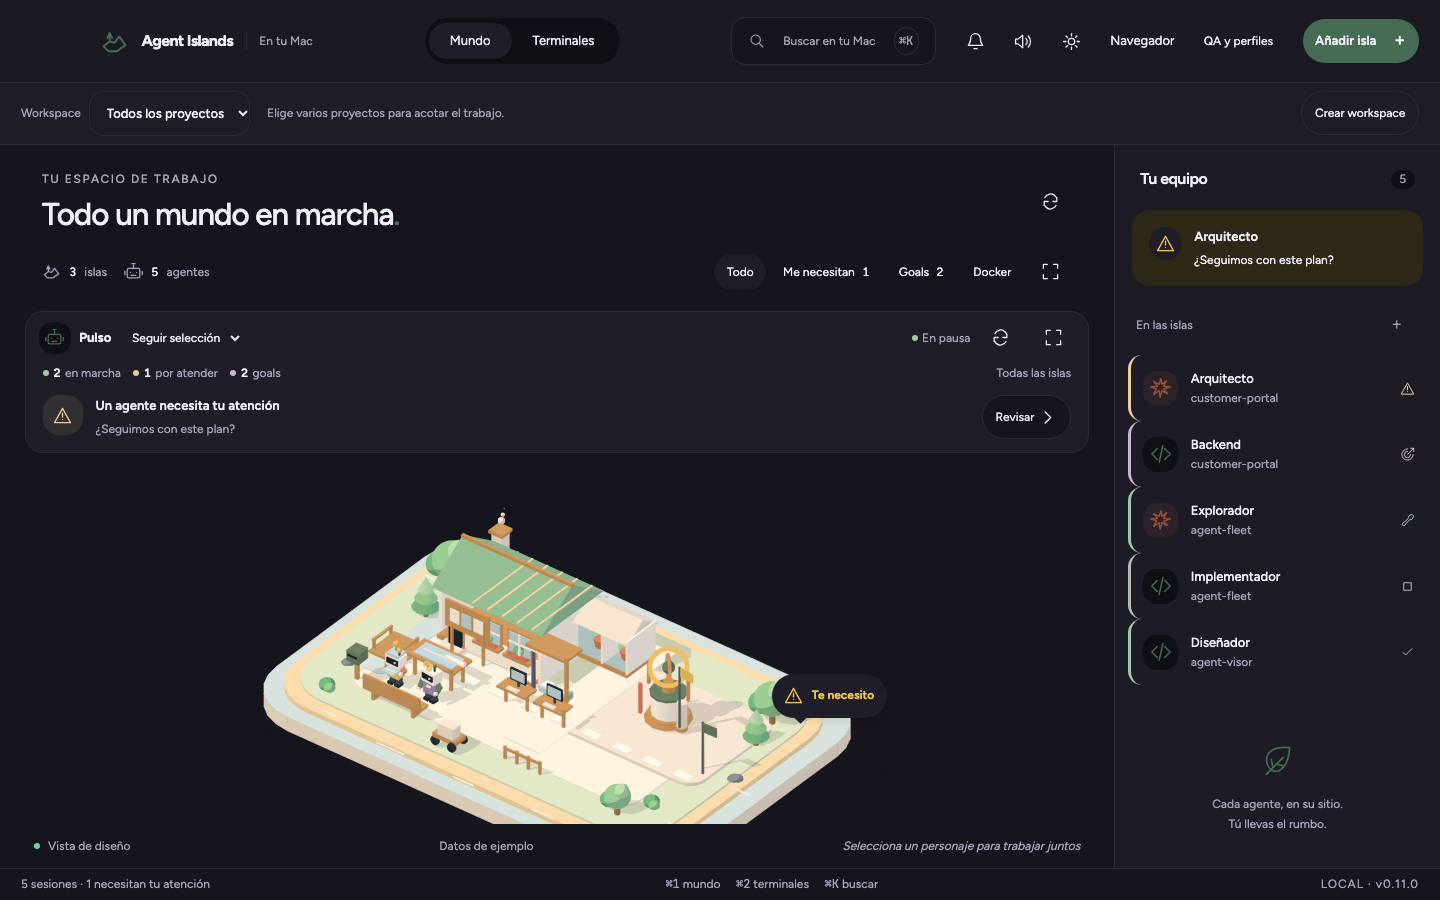
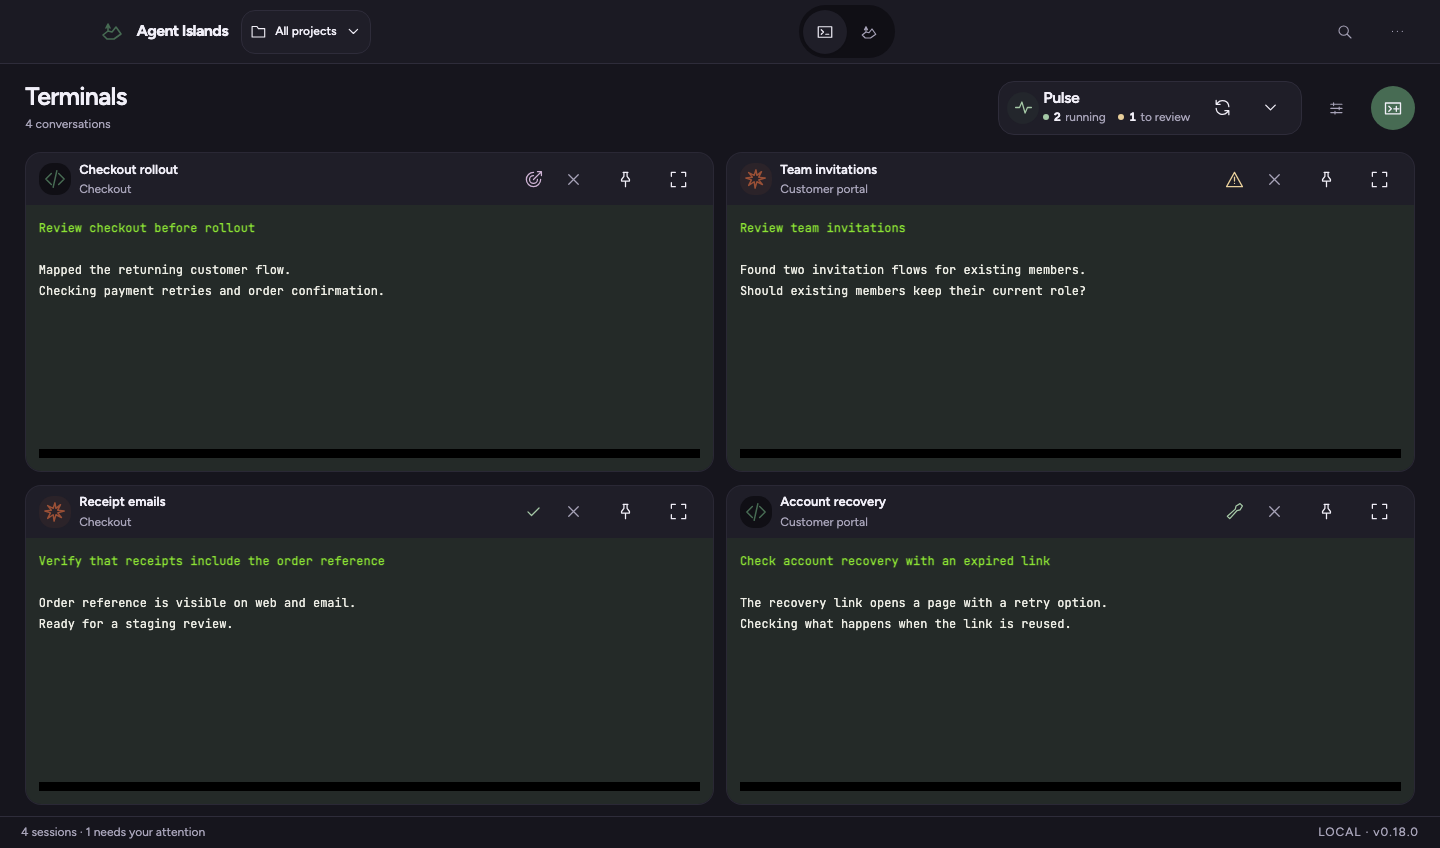
Present Agent Islands capabilities in a concise visual README

diff --git a/README.md b/README.md
@@ -1,216 +1,44 @@
-<p align="left">
-  <img src="docs/assets/banner.svg" alt="Agent Islands — Your agents. One place." width="100%">
-</p>
+<img src="docs/assets/banner.svg" alt="Agent Islands — Your agents. One place." width="100%">
 
-<p>
-  <a href="LICENSE"><img src="docs/assets/license-apache.svg" alt="License: Apache 2.0"></a>
-  <img src="docs/assets/platform-macos.svg" alt="Platform: macOS 14 or later">
-  <img src="docs/assets/status-preview.svg" alt="Status: developer preview">
-</p>
+**See where work stands and which decisions need you.** Agent Islands brings Codex and Claude Code into one macOS workspace. Keep projects, conversations and release evidence together as work moves from request to verification.
 
-**A local macOS workspace for Codex and Claude Code.** Bring projects, terminals, saved conversations and browser evidence into one place. Each project becomes an island; its agents show what is running, waiting or finished.
-
-[Español](README.es.md) · [Get started](#get-started) · [Features](#what-you-can-do) · [Architecture](docs/ARCHITECTURE.md) · [Contribute](CONTRIBUTING.md)
+[Español](README.es.md) · [Build on macOS](#get-started) · [Changelog](CHANGELOG.md)
 
 <picture>
   <source media="(prefers-color-scheme: dark)" srcset="docs/assets/workspace-dark.png">
-  <img src="docs/assets/workspace-light.png" alt="Agent Islands workspace: project islands with workshops, agent states and a contextual progress panel." width="100%">
+  <img src="docs/assets/workspace-light.png" alt="Four agent terminals for checkout and customer portal work, with Pulse flagging one decision." width="100%">
 </picture>
-
-*Actual app UI with demonstration data. The app supports Spanish and English; screenshots show Spanish.*
-
-## Why Agent Islands
-
-Switching between agent terminals makes it easy to lose the project, the account and the last useful piece of context. Agent Islands keeps those connections visible: the directory a conversation belongs to, the profile it runs under, the goal it is pursuing and the evidence behind a browser check.
-
-Use the familiar CLI harnesses in real terminals. Return to a conversation from its original directory. Open a deployed page, point at the part you want changed and send that reference with your next message.
 
 ## What you can do
 
-| Workflow | In Agent Islands |
-| --- | --- |
-| **Several projects at once** | Named workspaces group directories, choose a primary project and scope the visible context. Running sessions keep their original roots. |
-| **New or saved conversations** | Choose an active directory, add a new one, or restore the directory from a saved conversation. Search across the configured profiles. |
-| **Separate accounts** | Configure multiple Codex and Claude Code profiles, including a `claude-personal` profile with its own configuration directory. |
-| **Real agent terminals** | Native PTYs, xterm rendering and a terminal board with persistent pins. Working context and checkpoints fill the canvas beside the inspector. |
-| **Progress when you return** | Conversation checkpoints record the last consultation, a progress summary and product-level changes. Optional AI summaries show their source and time. |
-| **Goals with explicit states** | Working, blocked, paused and complete are distinct. `stalled` maps to blocked; `in_progress` to active; `achieved` to complete. Token usage is a budget, not a completion percentage. |
-| **Point to a visual change** | Control a Chromium page in the app, select a component or crop a region, and add the reference to your draft. |
-| **Describe a flow** | Record a browser interaction and attach its video, frames and step context. Review the draft before sending it to the selected harness. |
-| **Check deployed environments** | Register an origin, authenticate a QA profile, run a recipe or a project's Playwright suite, and inspect linked evidence. |
-| **Local tools** | Browse and edit project files, inspect Docker containers and ports, and dictate a message with macOS speech recognition. |
+- **Work across projects without losing context.** Group repositories into workspaces, keep priority terminals in named views, and resume saved conversations in their original directories. Separate profiles keep work and personal accounts organized.
+- **Act on decisions as they come up.** Pulse surfaces blocked goals and pending questions or approvals. Review the right agent in one click, or continue an eligible session after its turn ends.
+- **Pick up where you left off.** A dated checkpoint records product progress, what changed and the next step. Refresh it when new activity is recorded.
 
-### From a browser observation to a change
+## Turn feedback into release evidence
 
-![Browser selection attached to an agent draft alongside its terminal.](docs/assets/browser-reference.png)
+Open the product alongside an agent. Point to a component or record a flow, then attach it to your request. Run QA against a registered environment and keep screenshots and results with the revision when configured. [Browser and QA guide](docs/QA.md)
 
-1. Register an environment under **QA y perfiles → Entornos**.
-2. Open a public or local address from an agent, or bring an existing controllable Chromium tab with its signed-in session.
-3. Select a component, capture a region, or record the flow.
-4. Write the requested change and press **Enviar**.
+<img src="docs/assets/browser-reference.png" alt="Customer portal open beside the agent terminal and a draft requesting a change to the invitation flow." width="100%">
 
-References stay in the draft until you send them. The harness receives a local manifest and associated image paths; a recording also carries its video, sampled frames and steps. How each model uses those files depends on the harness and model. See [browser and QA setup](docs/QA.md).
+*Screens show demonstration data.*
 
 ## Get started
 
-Agent Islands is a **developer preview**. Build from source on macOS 14 or later. The project does not currently provide a notarized public installer.
-
-### Requirements
-
-- A Mac with Apple Silicon or Intel, macOS 14+, and Xcode Command Line Tools.
-- Node.js **24.22.2** and npm; see [`.node-version`](.node-version).
-- [Codex CLI](https://github.com/openai/codex), [Claude Code](https://code.claude.com/docs/en/overview), or both, installed and authenticated separately.
-- Python 3 to run the PTY tests. Docker is optional.
-
-The build targets the host architecture. Apple Silicon is validated locally; Intel builds need validation on an Intel Mac. Provider subscriptions and model access are separate from this project.
-
-### Build and launch
-
-From the repository directory:
+The developer preview builds on macOS 14+ with Xcode Command Line Tools and Node.js **24.22.2**. Install and authenticate Codex CLI, Claude Code or both separately.
 
 ```bash
 git clone https://github.com/AlexHHPS/agent-islands.git
 cd agent-islands
 npm ci
-npm run check
 npm run build
 open "build/Agent Islands.app"
 ```
 
-The build creates:
-
-```text
-build/Agent Islands.app       Native app for your Mac's architecture
-dist/Agent Islands.dmg       Local installer image
-```
-
-It downloads a pinned Node runtime, verifies its SHA-256 against [committed checksums](config/runtime.json), bundles Playwright and signs the app locally with an ad hoc signature. The DMG is **not notarized**. See [development](docs/DEVELOPMENT.md) for toolchain, validation and troubleshooting.
-
-### First run
-
-The terminal board includes **Create view / Crear vista**: name a selection of open conversations and return to it from the view selector. One terminal fills the work area, two sit side by side, and larger selections use a grid. Views and pins persist by conversation identity and stay scoped to the active workspace. Closing a terminal from its card or inspector uses the native confirmation, stops its owned PTY, removes the card and returns to the board; saved provider history remains available.
-
-The attention counter tracks explicit blocked/limited goals and pending questions or approvals. An open shell, an idle/finished turn, a generic notification or an old `waiting` label alone does not count as a request for action.
-
-Choose **Castellano** or **English** under the settings button → **Application language / Idioma de la aplicación**. Your choice is saved and applies immediately. The native app initially follows the Mac's preferred language, falling back to English.
-
-1. Add a project directory. Its island appears in the workspace.
-2. Start an agent with the **+** control; choose its harness, profile and directory.
-3. To return to earlier work, choose a saved conversation in the launch dialog.
-4. Use **Workspaces** to group related projects and select the primary directory.
-5. For browser features, open **QA y perfiles → Salud → Preparar QA** to download Chromium, then open a web address or bring an existing tab. Saved environments and local servers are optional shortcuts.
-
-For UI exploration without the native backend:
-
-```bash
-npm run preview
-```
-
-Open [the local demonstration](http://127.0.0.1:8768/?preview=1). It uses fixture data and cannot run agents. The app itself loads bundled files in WKWebView and does not run this preview server.
-
-## Profiles and workspaces
-
-A **profile** selects a harness executable and a separate configuration root. For example, give `claude-personal` its own Claude configuration directory and authenticate that directory with the CLI before using it. Configure profiles in **QA y perfiles → Perfiles**. API credentials are not copied between profiles by Agent Islands.
-
-A **workspace** groups two or more projects and determines the visible conversations, summaries and QA context. A launched session captures its project roots; switching workspace preserves that running session and its draft.
-
-Directory scope organizes context and harness arguments. It is not an operating-system security boundary. Agent processes retain the filesystem and network permissions granted to their CLI harness. Permission bypass is an explicit per-launch option, with a visible indicator.
-
-## Optional summaries
-
-The terminal, workspaces, history and QA do not require an Islands summary provider. To enable generated summaries:
-
-1. Open **QA y perfiles → IA**.
-2. Enter a Chat Completions-compatible endpoint and a model identifier supported by it.
-3. If required, save the API key using the native macOS Keychain dialog.
-4. Request a summary from an agent or project.
-
-HTTPS endpoints are supported; plain HTTP is accepted only on loopback. Automatic refresh starts **off** each time the app opens. When requested, selected context and conversation excerpts are sent to the configured endpoint. Keys stay out of the web UI and are associated with the exact endpoint. Compatibility depends on the server; see [privacy and data](docs/PRIVACY.md).
-
-## QA with evidence
-
-A check should say what was tested, under which account and against which revision.
-
-- Authentication state is scoped by profile, environment and test account.
-- Recipes can navigate, click, fill and assert page conditions.
-- Project suites run their existing Playwright configuration unchanged.
-- Runs retain checks, screenshots and results; optional revision checks detect a changed deployment.
-- Results distinguish passed, failed, blocked, skipped, cancelled, interrupted and stale.
-- Resource leases coordinate concurrent checks. A suite with only skipped tests does not count as a pass.
-
-Read-only recipes block mutating HTTP methods as a best-effort guard; they do not guarantee that a website cannot change state. Project suites execute project code and need a trusted checkout. Use test accounts and environments appropriate to the flow. [QA guide →](docs/QA.md)
-
-## How it fits together
-
-```mermaid
-flowchart LR
-  UI["Islands UI · JS / SVG / xterm"] <--> Native["macOS · Swift / AppKit / WKWebView"]
-  Native <--> PTY["Native PTY helper"]
-  PTY <--> CLI["Codex / Claude Code"]
-  Native --> History["Local conversation readers"]
-  Native <--> Broker["Persistent Node broker"]
-  Broker <--> QA["QA service · private Unix socket"]
-  QA <--> Browser["Playwright / Chromium"]
-  Native -. "Optional, on request" .-> AI["Configured summary endpoint"]
-```
-
-There is no Electron runtime, hosted Agent Islands account or application backend to deploy. The desktop UI uses the system WebKit renderer; interactive testing uses a separate Chromium runtime. [Architecture and source map →](docs/ARCHITECTURE.md)
-
-## Local data and privacy
-
-App-owned state lives in `~/Library/Application Support/Agent Islands/`. This includes project and profile configuration, checkpoints, QA records, authentication state and visual evidence. Optional summary API keys live in macOS Keychain. Provider conversations remain in their provider's configuration directories and are read locally for discovery and context.
-
-Agent harnesses, configured summary servers and the websites you visit can send data over the network. Screenshots, recordings and test authentication can contain sensitive information. Review evidence before sharing it; never attach raw local logs or auth state to an issue. [Data locations, network paths and cleanup →](docs/PRIVACY.md)
-
-## Development
-
-```bash
-npm ci
-npx playwright install chromium
-npm run check
-npm run build
-npm test
-npm run test:native
-npm run check:source
-npm run check:secrets
-```
-
-The suite exercises terminal behavior, conversation restore, workspace scope, checkpoints, goal transitions, browser references, real Chromium QA, MCP and the native broker. `test:native` uses isolated fixtures for the app smoke test. It does not send a real prompt to a provider.
-
-GitHub Actions runs checks, builds and fixture tests on macOS. Inspect the [actual workflow runs](https://github.com/AlexHHPS/agent-islands/actions/workflows/ci.yml) for the status of a revision.
-
-| Read next | What it covers |
-| --- | --- |
-| [Development](docs/DEVELOPMENT.md) | Toolchain, commands, test isolation, known limitations |
-| [Architecture](docs/ARCHITECTURE.md) | Native bridge, harness integration, browser service, state handling |
-| [QA guide](docs/QA.md) | Environments, profiles, recipes, existing suites and MCP |
-| [Localization](docs/LOCALIZATION.md) | Shared catalogues, translation workflow and language behavior |
-| [Design](docs/DESIGN.md) | Identity, logo, tokens, accessible states and screenshot fixtures |
-| [Browser research](docs/BROWSER-RESEARCH.md) | Evaluation scope for alternative engines and automation layers |
-| [Releasing](docs/RELEASING.md) | Clean source archive, validation, signing and publication steps |
-| [Changelog](CHANGELOG.md) | Curated changes by version |
-
-## Contributing
-
-Start with [CONTRIBUTING.md](CONTRIBUTING.md). Reproducible bug reports, documentation fixes, accessibility improvements, provider compatibility checks and tests on Intel Macs are useful contributions. Include the observed behavior, expected result and sanitized reproduction steps.
-
-The project follows a [code of conduct](CODE_OF_CONDUCT.md) and a documented [governance process](GOVERNANCE.md). Use [support](SUPPORT.md) for questions and report vulnerabilities through [SECURITY.md](SECURITY.md).
-
 ### Current limits and next work
 
-- Spanish and English are supported throughout the app; additional locales are welcome. See [localization](docs/LOCALIZATION.md).
-- Conversation and goal adapters depend on evolving CLI data formats. Unknown data is treated conservatively; full parity between providers is not guaranteed.
-- macOS only. Intel support is a build path awaiting hardware validation.
-- Public release signing, notarization and distribution are pending.
-- Alternative browser engines are research, not bundled production integrations.
-- Stronger automated compatibility checks and retention controls remain useful next steps.
+The build uses a local ad hoc signature. Apple Silicon is validated. Intel hardware validation and a notarized public installer remain pending. Generated summaries use a local Ollama instance or a compatible server you configure. [Development](docs/DEVELOPMENT.md) · [Privacy](docs/PRIVACY.md) · [Architecture](docs/ARCHITECTURE.md)
 
-## License and acknowledgements
+## License and collaboration
 
-Agent Islands is available under the **[Apache License 2.0](LICENSE)**. Third-party components keep their own licenses; see [THIRD_PARTY_NOTICES.md](THIRD_PARTY_NOTICES.md), including the original notices for Diorama, xterm, the bundled fonts, Node.js and Playwright.
-
-**Using Agent Islands commercially?** Contact [@AlexHHPS](https://github.com/AlexHHPS) through [Discussions](https://github.com/AlexHHPS/agent-islands/discussions) to discuss integrations, collaboration or commercial support. Contact is optional: Apache 2.0 permits commercial use without asking permission or paying a license fee.
-
-The Apache terms apply to this revision. Earlier public revisions through [`a4d6705`](https://github.com/AlexHHPS/agent-islands/blob/a4d670518e059fec07ae102b50e579503c64f9bc/LICENSE) were offered under MIT; their existing permissions are unchanged.
-
-The Agent Islands logo and documentation assets are included under Apache 2.0 unless a file states otherwise. Codex, Claude Code, macOS and Chromium are names of their respective owners. This is an independent project.
+Agent Islands is independent and available under [Apache 2.0](LICENSE), including commercial use. For integrations or commercial support, contact [@AlexHHPS on Discussions](https://github.com/AlexHHPS/agent-islands/discussions). [Contribute](CONTRIBUTING.md) · [Third-party notices](THIRD_PARTY_NOTICES.md)

diff --git a/README.es.md b/README.es.md
@@ -1,74 +1,42 @@
 <img src="docs/assets/banner-es.svg" alt="Agent Islands — Tus agentes. Un mismo lugar." width="100%">
 
-**Un workspace local para Codex y Claude Code en macOS.** Reúne proyectos, terminales, conversaciones y evidencias del navegador en un mismo lugar. Cada proyecto tiene su isla y cada agente muestra su estado.
+**Sigue el avance y decide dónde intervenir.** Agent Islands reúne Codex y Claude Code en un workspace para macOS. Cada proyecto conserva sus conversaciones y las evidencias que permiten comprobar qué se ha entregado.
 
-[English / documentación completa](README.md) · [Instalación](#instalación) · [Contribuir](CONTRIBUTING.md) · [Licencia Apache 2.0](LICENSE)
+[English](README.md) · [Compilar en macOS](#instalación) · [Historial de cambios](CHANGELOG.md)
 
-![Vista de proyectos con datos de demostración.](docs/assets/workspace-light.png)
+<picture>
+  <source media="(prefers-color-scheme: dark)" srcset="docs/assets/workspace-dark.png">
+  <img src="docs/assets/workspace-light.png" alt="Cuatro terminales para el checkout y el portal de clientes, con una decisión pendiente en Pulso." width="100%">
+</picture>
 
 ## Qué puedes hacer
 
-- Agrupar varios proyectos en un workspace y acotar el contexto visible.
-- Abrir conversaciones nuevas o recuperar las guardadas junto a su directorio original.
-- Usar perfiles separados, incluido `claude-personal`, con sus propias configuraciones.
-- Trabajar con terminales reales, anclar las prioritarias arriba, crear vistas personalizadas y consultar checkpoints de progreso por conversación.
-- Distinguir goals activos, bloqueados, pausados y completados sin confundir presupuesto con avance.
-- Controlar un navegador Chromium, seleccionar un componente o una región y añadirlo al borrador del chat.
-- Grabar un recorrido y enviar vídeo, fotogramas y pasos como referencia para un cambio.
-- Comprobar entornos desplegados con autenticación por perfil y evidencias de QA.
-- Configurar resúmenes opcionales con un servidor compatible y claves en el llavero de macOS.
+- **Trabaja en varios proyectos sin perder el hilo.** Agrupa repositorios en workspaces, guarda vistas con las terminales prioritarias y retoma conversaciones en su carpeta original. Usa perfiles separados para el trabajo y la cuenta personal.
+- **Resuelve las decisiones pendientes.** Pulso señala goals bloqueados, preguntas y permisos pendientes. Abre el agente correspondiente o envíale «Continúa» cuando haya terminado su turno y pueda seguir.
+- **Retoma el trabajo con contexto.** El checkpoint muestra la fecha, el avance del producto, los cambios y el siguiente paso. Puedes actualizarlo cuando se registra actividad nueva.
 
-![Selección visual preparada para enviar junto a un mensaje.](docs/assets/browser-reference.png)
+## Del feedback a una entrega verificable
+
+Abre el producto junto a la terminal. Señala un componente o graba un recorrido y adjúntalo a tu petición. Ejecuta pruebas en un entorno registrado y guarda capturas y resultados con la revisión que se haya configurado. [Guía de navegador y QA](docs/QA.md)
+
+<img src="docs/assets/browser-reference.png" alt="Portal de clientes junto a la terminal y un borrador con un cambio en el flujo de invitaciones." width="100%">
+
+*Capturas con datos de demostración.*
 
 ## Instalación
 
-Vista previa para desarrolladores: macOS 14+, Xcode Command Line Tools, Node.js 24.22.2 y npm. Instala y autentica Codex CLI o Claude Code por separado. Docker es opcional; las pruebas del PTY usan Python 3.
-
-Desde el directorio del repositorio:
+La vista previa para desarrolladores se compila en macOS 14+ con Xcode Command Line Tools y Node.js **24.22.2**. Instala y autentica Codex CLI, Claude Code o ambos por separado.
 
 ```bash
 git clone https://github.com/AlexHHPS/agent-islands.git
 cd agent-islands
 npm ci
-npm run check
 npm run build
 open "build/Agent Islands.app"
 ```
 
-La compilación genera la aplicación y `dist/Agent Islands.dmg` para la arquitectura del Mac. La firma es ad hoc; el instalador no está notarizado. Apple Silicon está validado localmente; la compilación Intel requiere validación en hardware Intel.
+La compilación usa firma local ad hoc. Apple Silicon está validado. Quedan pendientes la validación en Intel y un instalador público notarizado. Los resúmenes generados usan Ollama en local o el servidor compatible que configures. [Desarrollo](docs/DEVELOPMENT.md) · [Privacidad](docs/PRIVACY.md) · [Arquitectura](docs/ARCHITECTURE.md)
 
-Añade un directorio y crea un agente desde el **+** de su isla. El selector permite elegir un directorio activo, uno nuevo o recuperar el de una conversación anterior. En **Workspaces** puedes agrupar proyectos y elegir uno principal.
+## Licencia y colaboración
 
-Para el navegador, abre **QA y perfiles → Salud → Preparar QA** y abre una URL pública o local, o trae una pestaña existente de un Chromium compatible conservando su acceso SSO. Puedes seleccionar componentes, capturar regiones o grabar recorridos. Las referencias se quedan en el borrador hasta pulsar **Enviar**. Su uso posterior depende del harness y del modelo.
-
-## Idioma
-
-Abre el botón de ajustes y elige **Castellano** o **English** en **Idioma de la aplicación**. Se aplica al instante y se guarda para las próximas aperturas. La aplicación nativa usa inicialmente el idioma del Mac, con inglés como alternativa. Los textos propios, menús, QA, fechas, dictado y resúmenes siguen esta preferencia; tus mensajes, borradores y conversaciones conservan su contenido.
-
-## Datos y permisos
-
-El estado de la app se guarda en `~/Library/Application Support/Agent Islands/`. Los perfiles usan directorios de configuración separados. Las claves del servidor de resúmenes se guardan en el llavero; las actualizaciones automáticas empiezan desactivadas.
-
-Al pedir un resumen, el contexto seleccionado se envía al servidor configurado. Los agentes y las páginas visitadas mantienen su propio acceso a red. Un workspace organiza contexto y argumentos del harness; no crea un aislamiento de seguridad del sistema operativo.
-
-Consulta [privacidad](docs/PRIVACY.md), [QA](docs/QA.md), [desarrollo](docs/DEVELOPMENT.md) y [arquitectura](docs/ARCHITECTURE.md) para los detalles.
-
-## Desarrollo y contribuciones
-
-```bash
-npx playwright install chromium
-npm run check
-npm test
-npm run test:native
-npm run check:source
-```
-
-`npm test` necesita la aplicación compilada. Las pruebas usan fixtures; no envían prompts reales a proveedores. La interfaz completa está disponible en castellano e inglés. El README principal y las guías técnicas están en inglés para facilitar contribuciones.
-
-Lee [CONTRIBUTING.md](CONTRIBUTING.md), el [código de conducta](CODE_OF_CONDUCT.md), las [reglas de gobierno](GOVERNANCE.md), [soporte](SUPPORT.md), [SECURITY.md](SECURITY.md) y el [changelog](CHANGELOG.md). Proyecto independiente bajo [Apache 2.0](LICENSE), con [licencias de terceros](THIRD_PARTY_NOTICES.md).
-
-## Uso comercial y contacto
-
-Apache 2.0 permite el uso comercial sin pedir permiso ni pagar una licencia. Si lo usas en tu empresa, contacta con [@AlexHHPS](https://github.com/AlexHHPS) en [Discussions](https://github.com/AlexHHPS/agent-islands/discussions) para hablar de integraciones, colaboración o soporte comercial. El contacto es voluntario y no es una condición de la licencia.
-
-Las revisiones públicas anteriores hasta [`a4d6705`](https://github.com/AlexHHPS/agent-islands/blob/a4d670518e059fec07ae102b50e579503c64f9bc/LICENSE) se ofrecieron bajo MIT y conservan sus permisos.
+Agent Islands es un proyecto independiente bajo [Apache 2.0](LICENSE), que permite el uso comercial. Para integraciones o soporte comercial, contacta con [@AlexHHPS en Discussions](https://github.com/AlexHHPS/agent-islands/discussions). [Contribuir](CONTRIBUTING.md) · [Licencias de terceros](THIRD_PARTY_NOTICES.md)
